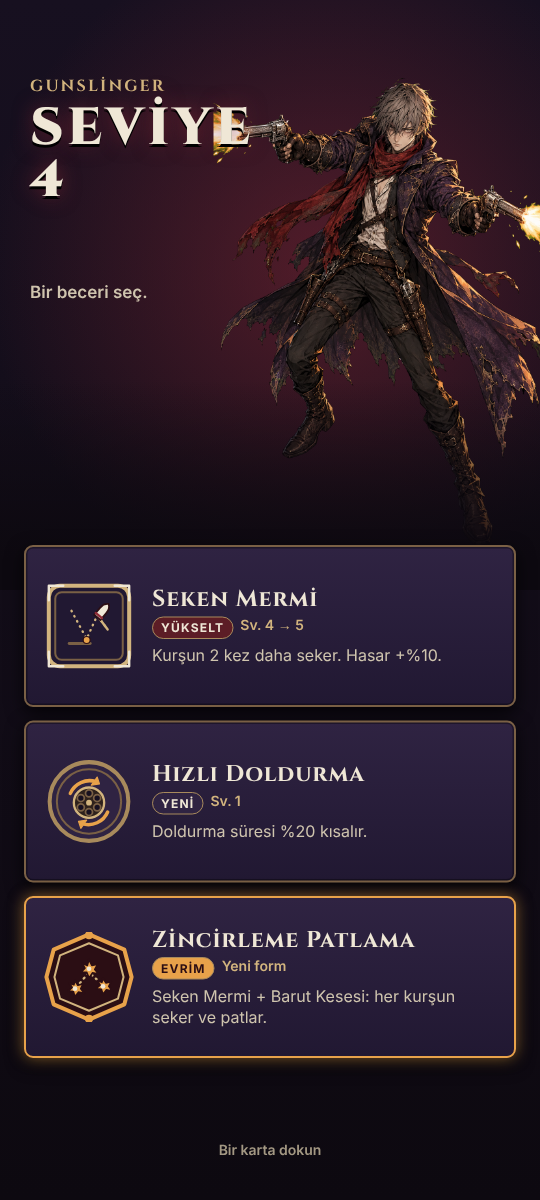
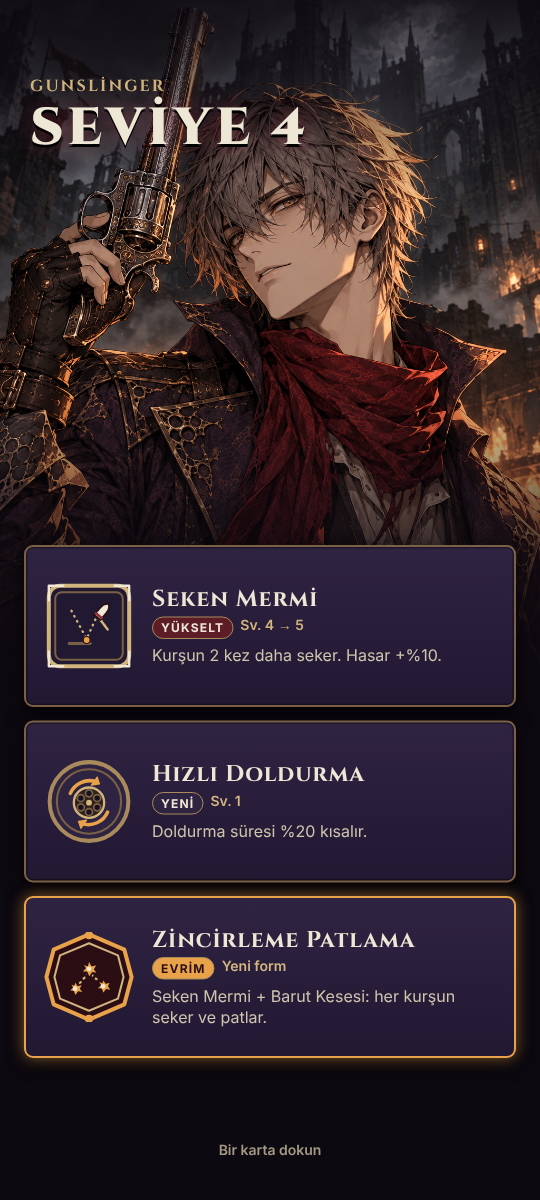
docs(ui): seviye atlama maketine kullanıcı portresi yerleştirildi
Claude-Session: https://claude.ai/code/session_0197MmXqm24FeFbzqy4Y998J

Changed region(s): [[0.0, 0.0, 1.0, 0.4933], [0.0, 0.0925, 0.0296, 0.1233]]

diff --git a/docs/ui/mockups/04-seviye-atlama.html b/docs/ui/mockups/04-seviye-atlama.html
@@ -1,9 +1,8 @@
-<!doctype html><html lang="tr"><head><meta charset="utf-8"><meta name="viewport" content="width=1080"><title>Seviye Atlama — Ashen Bastion UI maketi</title><link rel="stylesheet" href="ui.css"></head><body><main class="screen" aria-label="Seviye Atlama"><div class="abs" style="inset:0;background:radial-gradient(ellipse 90% 40% at 60% 22%,rgba(143,42,54,.5),transparent 70%),linear-gradient(180deg,#171020,#0D0910)"></div>
-<div class="abs" style="left:380px;top:120px;width:760px;height:1000px"><img src="assets/gunslinger-atis-keyed.png" alt="Gunslinger portresi (yer tutucu: ana görsel)" style="width:100%;height:100%;object-fit:contain"></div>
-<div class="abs" style="left:0;right:0;top:760px;height:420px;background:linear-gradient(0deg,#0D0910 15%,transparent)"></div>
-<div class="abs" style="left:60px;top:150px"><div class="sec-t" style="font-size:32px">Gunslinger</div><div class="title" style="text-align:left;font-size:104px;margin-top:12px">SEVİYE<br>4</div></div>
-<div class="abs" style="left:60px;top:560px;font:600 34px/1.4 Inter;color:#CFC4AE;width:360px">Bir beceri seç.</div>
-<div class="abs" style="left:60px;top:1056px;right:60px;font:600 26px Inter;color:#A39883;text-align:center;display:none">Seç</div>
+<!doctype html><html lang="tr"><head><meta charset="utf-8"><meta name="viewport" content="width=1080"><title>Seviye Atlama — Ashen Bastion UI maketi</title><link rel="stylesheet" href="ui.css"></head><body><main class="screen" aria-label="Seviye Atlama"><div class="abs" style="inset:0;background:#0D0910"></div>
+<div class="abs" style="left:0;top:0;width:1080px;height:1620px"><img src="../../../art/ref/portre-seviye-atlama.png" alt="Gunslinger portresi" style="width:100%;height:100%;object-fit:cover"></div>
+<div class="abs" style="left:0;right:0;top:0;height:420px;background:linear-gradient(180deg,rgba(13,9,16,.85),transparent)"></div>
+<div class="abs" style="left:0;right:0;top:760px;height:860px;background:linear-gradient(0deg,#0D0910 30%,rgba(13,9,16,.85) 55%,transparent)"></div>
+<div class="abs" style="left:60px;top:150px"><div class="sec-t" style="font-size:32px">Gunslinger</div><div class="title" style="text-align:left;font-size:104px;margin-top:12px">SEVİYE 4</div></div>
 <div class="panel abs" role="button" aria-label="Seken Mermi. Kurşun 2 kez daha seker. Hasar +%10." style="left:48px;right:48px;top:1090px;height:324px;border-color:#7A6045;display:flex;align-items:center;gap:36px;padding:0 36px">
 <div style="position:relative;width:180px;height:180px;flex:none"><img src="../../../art/ui/frames/cerceve-aktif.svg" style="position:absolute;inset:0;width:180px;height:180px" alt=""><img src="../../../art/ui/icons/seken-mermi.svg" style="position:absolute;left:34px;top:34px;width:112px;height:112px" alt=""></div>
 <div style="flex:1;min-width:0"><div style="display:flex;align-items:center;gap:18px;margin-bottom:10px"><span class="disp" style="font-size:46px;line-height:1.1">Seken Mermi</span></div>

diff --git a/docs/ui/DESIGN-UI.md b/docs/ui/DESIGN-UI.md
@@ -104,7 +104,7 @@ Ana görsel (`ana-gorsel-atis.png`, yeşil arka plan silinmiş halde) ekranın o
 - Yuvalar sabit: yeni beceri soldan sağa dolar. **Evrim:** ham beceri yuvası sekizgen evrim çerçevesine döner, ikon yeni evrim ikonuna; 300 ms amber parlama (bir kez).
 
 ### 6.3 Seviye Atlama — `04-seviye-atlama`
-Oyun duraklar, sahne %80 koyulaşır, **portre alanı** üstte (y 60–1100): karakter büyük portresi (v1'de ana görsel yer tutucu; kullanıcı portre promptu ile gelecek — kutu 760×1000 sağa dayalı, sol üstte "GUNSLINGER / SEVİYE N"). Altta **3 kart** (984×324, aralık 27): ikon çerçevesi 180 px, ad (Cinzel 46), etiket (`YENİ` mor, `YÜKSELT` bordo, `EVRİM` amber dolgu) + seviye geçişi (`Sv. 4 → 5`), açıklama 1–2 satır (≤ 60 karakter).
+Oyun duraklar, sahne %80 koyulaşır, **portre alanı** üstte: kullanıcının ürettiği `art/ref/portre-seviye-atlama.png` (1024×1536, 2:3, arka planlı) tam genişlikte (1080×1620) ekranın üstüne yerleşir; yüz ve tabanca üst yarıda kalır. Üstte koyu geçiş (başlık okunurluğu), y≈760'tan itibaren alta doğru #0D0910'a solan perde kartların arkasını örter; sol üstte "GUNSLINGER / SEVİYE N" (3 px gölge). Altta **3 kart** (984×324, aralık 27): ikon çerçevesi 180 px, ad (Cinzel 46), etiket (`YENİ` mor, `YÜKSELT` bordo, `EVRİM` amber dolgu) + seviye geçişi (`Sv. 4 → 5`), açıklama 1–2 satır (≤ 60 karakter).
 - **Etkileşim:** karta dokun = seçilir ve ekran kapanır (onay adımı yok; hız önemli). **Kazara dokunmayı önlemek için** ekran açıldıktan sonra **500 ms giriş kilidi**; bu sürede kartlar %60 opak, kilit bitince tam opak + hafif nabız. Basılı tutma yok. Kart pressed: 6 px aşağı + parlak kenar.
 - **Evrim kartı:** sekizgen çerçeve, amber kenarlık + ışıma, açıklama hangi çifte dayandığını yazar. Bir evrim kartı varsa her zaman 3 seçenekten biridir ve en alta konur (parmağın en kolay ulaştığı yer) — *öneri*; ilk iki sıra rastgele.
 - **Kenar durumları:** (a) 3'ten az seçenek kaldı (tüm yuvalar dolu/maks.) → kalan sayıda kart, ortaya hizalı; (b) hiç seçenek yok → ekran açılmaz, yerine "Şifa" sabit kartı (+%25 can, ikon `hud-can`) tek kart olarak gösterilir (*öneri; oyun tasarımı kararı*); (c) yuvalar dolu ve yeni beceri yok: yalnızca yükseltme kartları.
@@ -171,7 +171,7 @@ Projede önceden UI yoktu; yeni sistem, tek token kaynağı `tokens.json`.
 
 - **Varsayım:** 1 dp = 2,75 px (cihaz yoğunluğu doğrulanmadı; gerçek cihaz testi kullanıcıda).
 - **Varsayım:** Konsept sayfasındaki 5 renk örneği piksel olarak okundu; UI kademeleri bu tonlardan türetildi (kullanıcı onayı ister).
-- Seviye atlama portresi için kullanıcıdan gelecek görselin kırpma oranı bilinmiyor: yer tutucu 760×1000 (3:4), farklı gelirse portre kutusu ölçeklenir.
+- Seviye atlama portresi geldi (`art/ref/portre-seviye-atlama.png`) ve maketle yerleştirildi; `object-fit: cover` ile 2:3 oranı 1080×1620'ye oturur, farklı ekran oranında alt/üst kırpılır (yüz üst-orta bölgede güvende).
 - Ayarlar ekranı spec'te yok; yalnızca Ses ve Titreşim anahtarları önerildi (menü + duraklatma). Müzik/efekt ayrı kaydırıcı v1 dışı.
 - "Şifa" yedek kartı (seçenek kalmadığında) ve evrim kartının hep son sırada olması **oyun tasarımı kararıdır**; öneri olarak yazıldı.
 - Düşman/harita görselleri yer tutucu daire/dikdörtgen; yalnızca HUD yerleşimini göstermek içindir.
